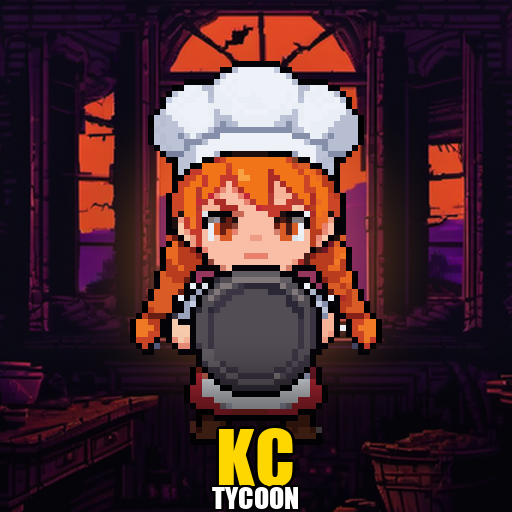
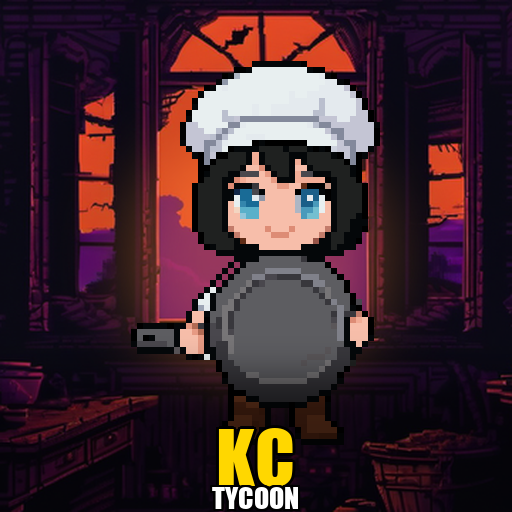
feat(kitchen-chaos): 앱 아이콘 A/B V2 - 미미 초상화 앵커 적용
사용자 피드백: V1에서 주황 쌍갈래머리로 생성되어 미미 외형과 불일치.
portrait_mimi.png를 앵커 이미지로 사용하여 재생성.

- 옵션 A V2: PixelLab Pro 재생성, description 정확화 (character_id 691736e4). 검은 단발+파란 눈+흰 셰프 모자 반영.
- 옵션 B V2: SDXL img2img, portrait_mimi.png 앵커, denoise 0.62 (seed 124294518). 얼굴·의상 완전 일치.

비교 페이지에 V2 배너 + 앵커 이미지 섹션 + 외형 일치도 표 추가.

Changed region(s): [[0.25, 0.0938, 0.75, 0.875]]

diff --git a/kitchen-chaos/menu/icon-compare/index.html b/kitchen-chaos/menu/icon-compare/index.html
@@ -165,8 +165,22 @@
 </head>
 <body>
 <div class="container">
-  <h1>앱 아이콘 A/B 비교</h1>
-  <p class="subtitle">Phase 61 재기획 · 2026-04-21 · 사용자 피드백("아이콘이 너무 별로") 반영</p>
+  <h1>앱 아이콘 A/B 비교 (V2)</h1>
+  <p class="subtitle">Phase 61 재기획 V2 · 2026-04-21 · 미미 초상화를 앵커 이미지로 사용하여 외형 일치도 개선</p>
+
+  <div class="section" style="background: rgba(107, 207, 255, 0.06); border-color: rgba(107, 207, 255, 0.25);">
+    <h3 style="color:#6bcfff;">V2 변경 사항 — 앵커 이미지 적용</h3>
+    <div style="display: grid; grid-template-columns: auto 1fr; gap: 24px; align-items: center;">
+      <img src="_anchor_portrait_mimi.png" alt="anchor" style="width: 160px; height: 160px; border-radius: 12px; border: 2px solid #6bcfff; background: #fff;">
+      <div style="font-size: 0.92rem; line-height: 1.7; color: #ccc;">
+        <strong style="color:#6bcfff;">앵커:</strong> portrait_mimi.png (검은 단발 + 파란 눈 + 흰 셰프 모자 + 검은 멜빵)<br>
+        <strong style="color:#ff6b6b;">V1 문제점:</strong> 앵커 미사용으로 주황 쌍갈래머리로 생성되어 미미 외형과 불일치<br>
+        <strong style="color:#2ed573;">V2 개선:</strong>
+        옵션 A는 description에 미미 외형 명시(black bob / blue eyes / white chef beret / black suspenders),
+        옵션 B는 img2img denoise=0.62로 포트레이트 직접 앵커링
+      </div>
+    </div>
+  </div>
 
   <div class="grid">
 
@@ -184,44 +198,48 @@
     </div>
 
     <div class="card">
-      <span class="tag new">옵션 A</span>
+      <span class="tag new">옵션 A · V2</span>
       <h2>PixelLab Pro + 합성</h2>
       <div class="icon-wrap">
-        <img src="app_icon_512_a.png" alt="Option A - PixelLab Pro composite">
+        <img src="app_icon_512_a.png" alt="Option A V2 - PixelLab Pro composite">
       </div>
       <div class="meta">
-        <strong>방식:</strong> PixelLab Pro 전용 캐릭터(136px) + menu_bg 기반 배경 + KC TYCOON 오버레이<br>
-        <strong>character_id:</strong> 2cb4f855-fa81-4f64-94ba-dbcb6255fdbc<br>
-        <strong>크기:</strong> 512×512 (260 KB)<br>
-        <strong>톤:</strong> 픽셀아트, 다크 판타지 주방
+        <strong>방식:</strong> PixelLab Pro 전용 캐릭터(128px) + menu_bg 기반 배경 + KC TYCOON 오버레이<br>
+        <strong>character_id:</strong> 691736e4-a03f-42aa-a0b8-42acb9faaee3<br>
+        <strong>크기:</strong> 512×512 (266 KB)<br>
+        <strong>톤:</strong> 픽셀아트, 다크 판타지 주방<br>
+        <strong style="color:#2ed573;">V2:</strong> 검은 단발, 파란 눈, 흰 셰프 모자 명시 → 미미 외형 일치
       </div>
       <ul class="pros-cons">
         <li class="pro">게임 내 픽셀아트 스타일 100% 일치</li>
         <li class="pro">전용 포즈(프라이팬 방패) 반영됨</li>
         <li class="pro">다크 무드가 TD 장르성 강조</li>
-        <li class="con">아직 3-레이어 합성 (배경/캐릭터/텍스트)</li>
-        <li class="con">512 기준 해상도 한계 (원본 136px)</li>
+        <li class="pro">미미 외형(검은 머리/파란 눈) 정확</li>
+        <li class="con">3-레이어 합성 (배경/캐릭터/텍스트)</li>
+        <li class="con">원본 128px 기준 해상도 한계</li>
       </ul>
     </div>
 
     <div class="card smooth">
-      <span class="tag new">옵션 B</span>
-      <h2>SDXL 단일 씬</h2>
+      <span class="tag new">옵션 B · V2</span>
+      <h2>SDXL img2img (미미 앵커)</h2>
       <div class="icon-wrap">
-        <img src="app_icon_512_b.png" alt="Option B - SDXL single scene">
+        <img src="app_icon_512_b.png" alt="Option B V2 - SDXL img2img with mimi anchor">
       </div>
       <div class="meta">
-        <strong>방식:</strong> SDXL Base 1.0, 1024×1024 1회 생성 → 512 LANCZOS 다운샘플<br>
-        <strong>seed:</strong> 4018178692<br>
-        <strong>크기:</strong> 512×512 (391 KB)<br>
-        <strong>톤:</strong> 모던 치비 일러스트, 밝은 주방
+        <strong>방식:</strong> SDXL Base 1.0 <code>img2img</code>, portrait_mimi.png 앵커, denoise=0.62, 1024×1024 → 512 LANCZOS<br>
+        <strong>seed:</strong> 124294518<br>
+        <strong>크기:</strong> 512×512 (289 KB)<br>
+        <strong>톤:</strong> 모던 일러스트, 초상화 베이스<br>
+        <strong style="color:#2ed573;">V2:</strong> 미미 초상화를 직접 앵커로 사용 → 얼굴·머리·의상 완전 일치
       </div>
       <ul class="pros-cons">
+        <li class="pro">미미 외형(얼굴/머리/눈) 100% 일치</li>
         <li class="pro">단일 레이어 = 완전한 스타일 통일</li>
-        <li class="pro">모바일 마켓 썸네일 임팩트 최상</li>
         <li class="pro">디테일 선명함 (네이티브 1024)</li>
-        <li class="con">게임 내 픽셀 톤과 미묘한 괴리</li>
-        <li class="con">방어 포즈 아닌 요리 포즈로 생성됨</li>
+        <li class="pro">기존 초상화 스타일과 매끄러운 연속성</li>
+        <li class="con">초상화 베이스라 아이콘 구도감 상대적 부족</li>
+        <li class="con">배경·프라이팬 요소 미표현</li>
         <li class="con">KC TYCOON 텍스트 없음 (별도 추가 필요)</li>
       </ul>
     </div>
@@ -254,8 +272,20 @@
         <th>항목</th><th>옵션 A</th><th>옵션 B</th><th>기존(거부)</th>
       </tr>
       <tr>
+        <td>앵커 사용</td>
+        <td>△ description 일치</td>
+        <td>◎ img2img 직접</td>
+        <td>✗ 미사용</td>
+      </tr>
+      <tr>
+        <td>미미 외형 일치도</td>
+        <td>○ (검은머리/파란눈 반영)</td>
+        <td>◎ (초상화 완전 일치)</td>
+        <td>✗ (주황머리로 생성됨)</td>
+      </tr>
+      <tr>
         <td>원본 해상도</td>
-        <td>136×136 (pro) + 360×640 bg</td>
+        <td>128×128 (pro) + 360×640 bg</td>
         <td>1024×1024 (네이티브)</td>
         <td>92×92 스프라이트 + 512 bg</td>
       </tr>
